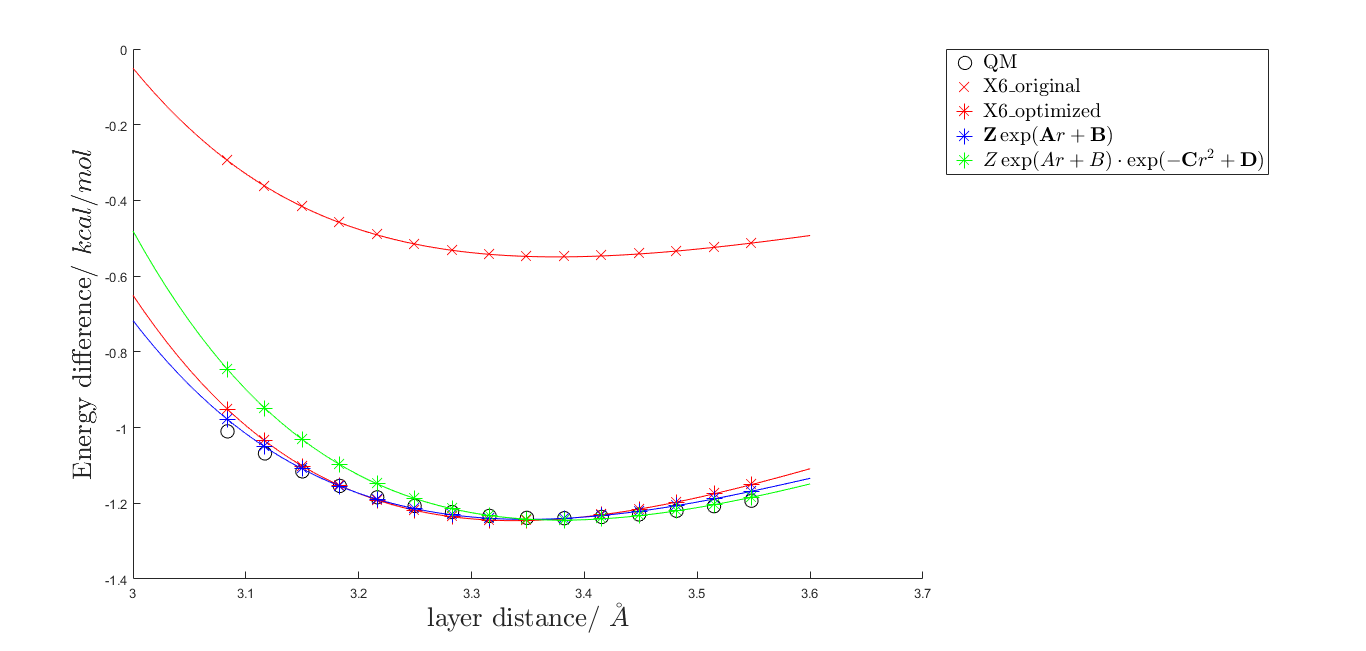
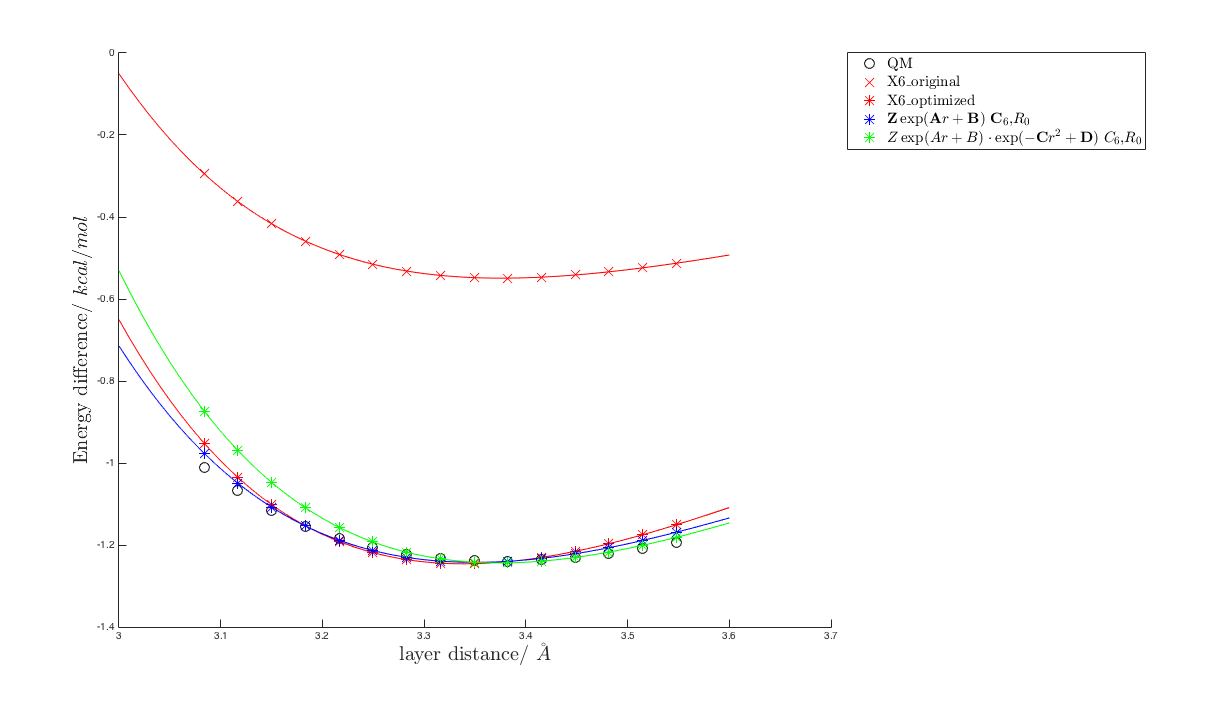
revise the legend of the plot

diff --git a/data/two_body.m b/data/two_body.m
@@ -36,8 +36,8 @@ h = legend([plotQM, ...
     plotEXP2_optimized], ...
     'QM', ...
     'X6\_original', 'X6\_optimized', ...
-    '$$\textbf{Z}\exp(\textbf{A}r+\textbf{B})$$', ...
-    '$$Z\exp(Ar+B)\cdot\exp(-\textbf{C}r^2+\textbf{D})$$' ...
+    '$$\textbf{Z}\exp(\textbf{A}r+\textbf{B})$$    $$\textbf{C}_6$$,$$R_0$$', ...
+    '$$Z\exp(Ar+B)\cdot\exp(-\textbf{C}r^2+\textbf{D})$$   $$C_6$$,$$R_0$$' ...
     );
 %     plotX6S_original, plotX6S_optimized,
 %     plotLJ_original, plotLJ_optimized
